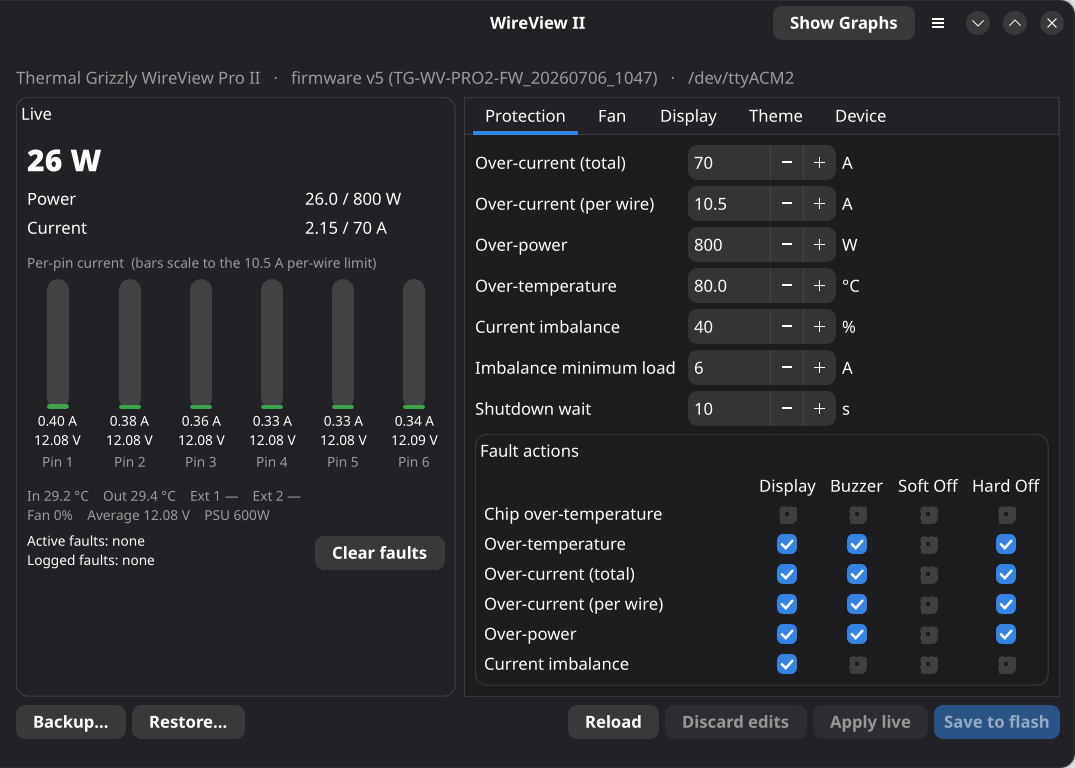
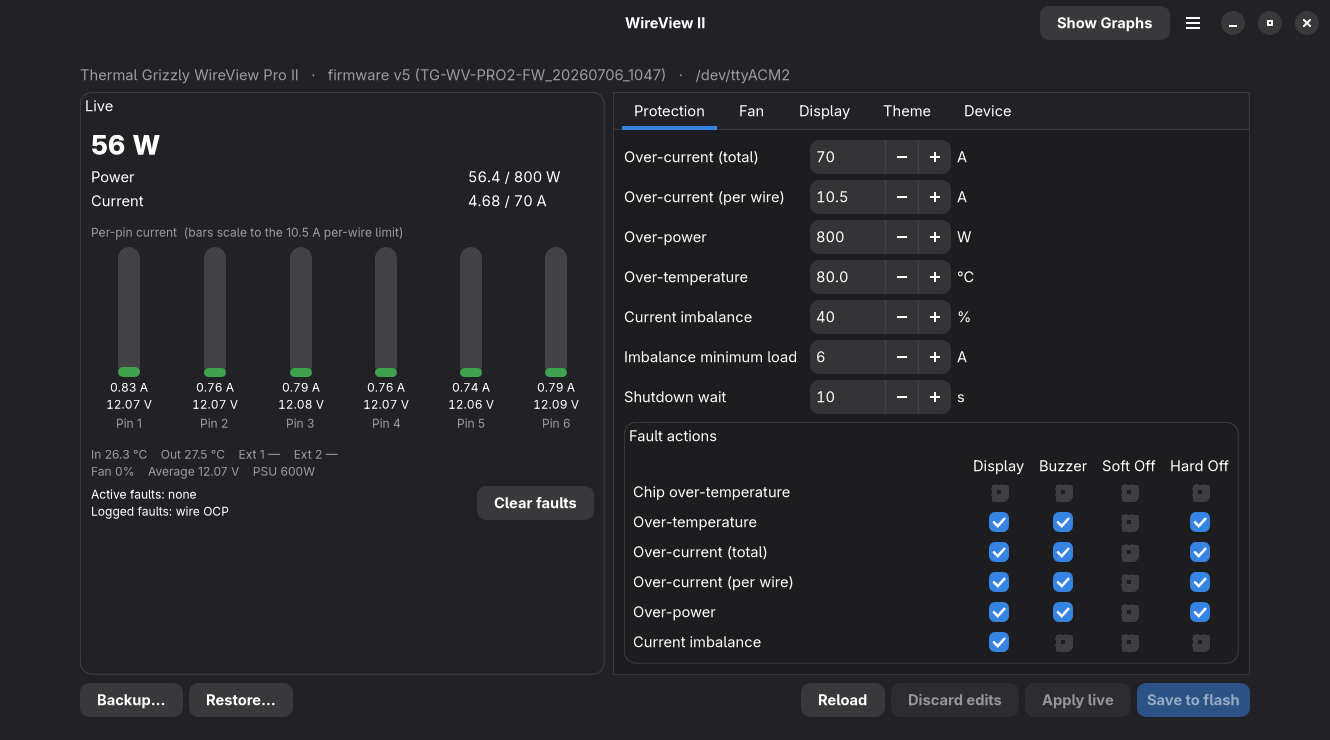
README: refresh the Advanced and WireView screenshots for the current interface
Advanced page now shows the PWRCLK/HUB tiles, thermal inputs, memory
timings, the V/F curve editor, the boot guard row and the Torch/FurMark
bench buttons. Captured from a Broadway instance with a private config;
no local paths or USB serial in any image.

diff --git a/README.md b/README.md
@@ -66,9 +66,9 @@ Blackwell card: the NVML-backed controls the Overclocking page also has
 (core and memory offset, power limit, voltage boost, locked core clock) plus
 the ones only this page reaches.
 
-| Telemetry, clock and voltage cards, rail limits | Memory, power and current limits, boost limits, V/F curves, tests |
+| Telemetry, clock and voltage cards, rail limits | Memory and power, thermal inputs, memory timings, boost limits, V/F curves, boot guard, tests |
 | --- | --- |
-| ![Advanced page: telemetry tiles including the rail currents, the core and fabric cards and the two rail-limit cards](./res/screenshots/advanced-1.png) | ![Advanced page: memory, power-limit and OCP cards, the boost-limit panel, the clock domain V/F curves and the test runner](./res/screenshots/advanced-2.png) |
+| ![Advanced page: telemetry tiles including the rail currents and the PWRCLK and HUB clocks, the core and fabric cards and the two rail-limit cards](./res/screenshots/advanced-1.png) | ![Advanced page: memory, power-limit and OCP cards, the thermal inputs, the memory timings table, the boost-limit panel, the clock domain V/F curves with the curve editor, the boot guard row and the test runner with the torch and FurMark benches](./res/screenshots/advanced-2.png) |
 
 The **Boot guard** row, between the V/F curves and the tests, is the safety net for the rest
 of it: with it on, the daemon writes a marker before applying settings and
